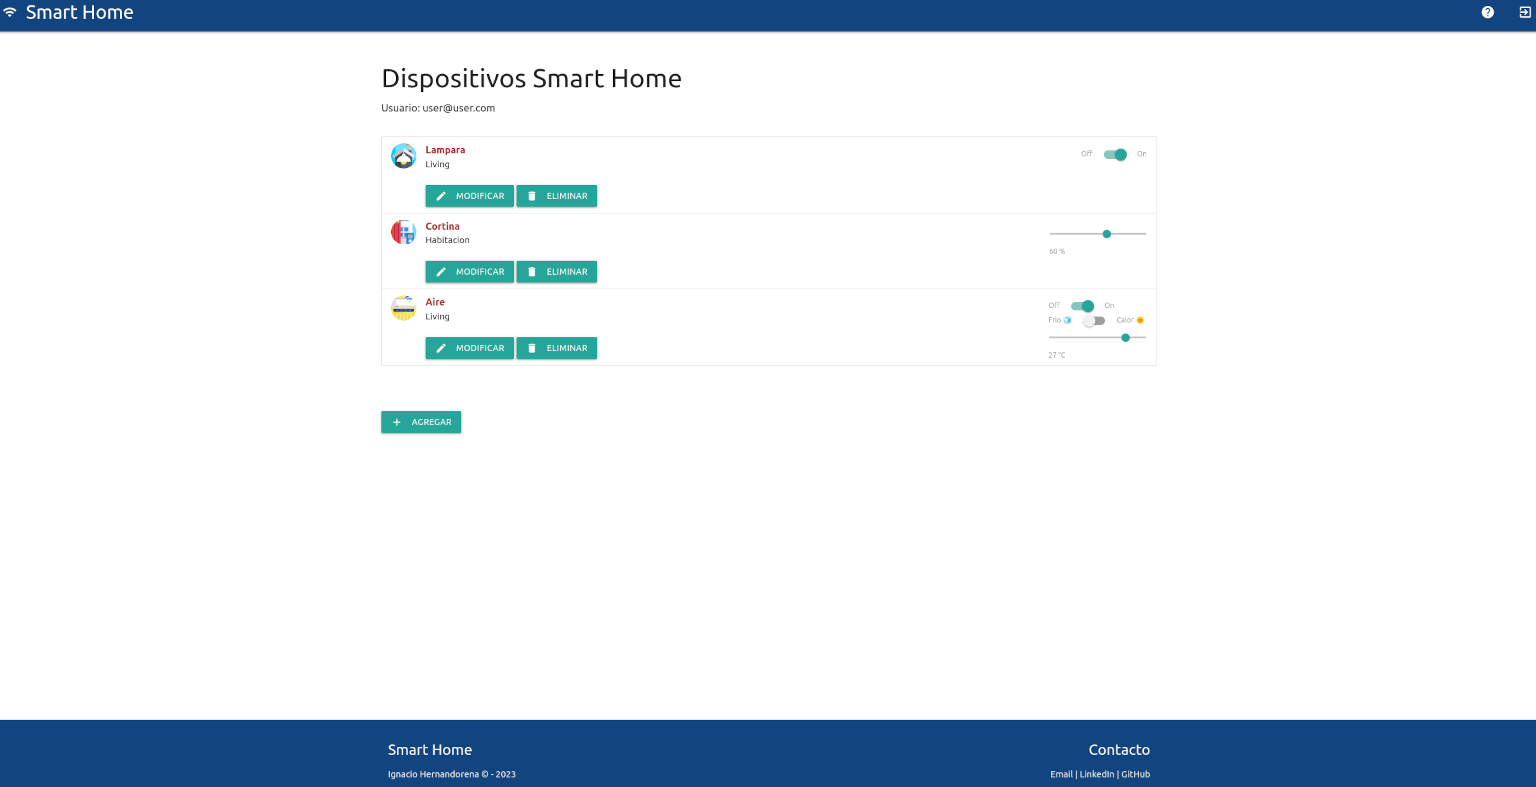
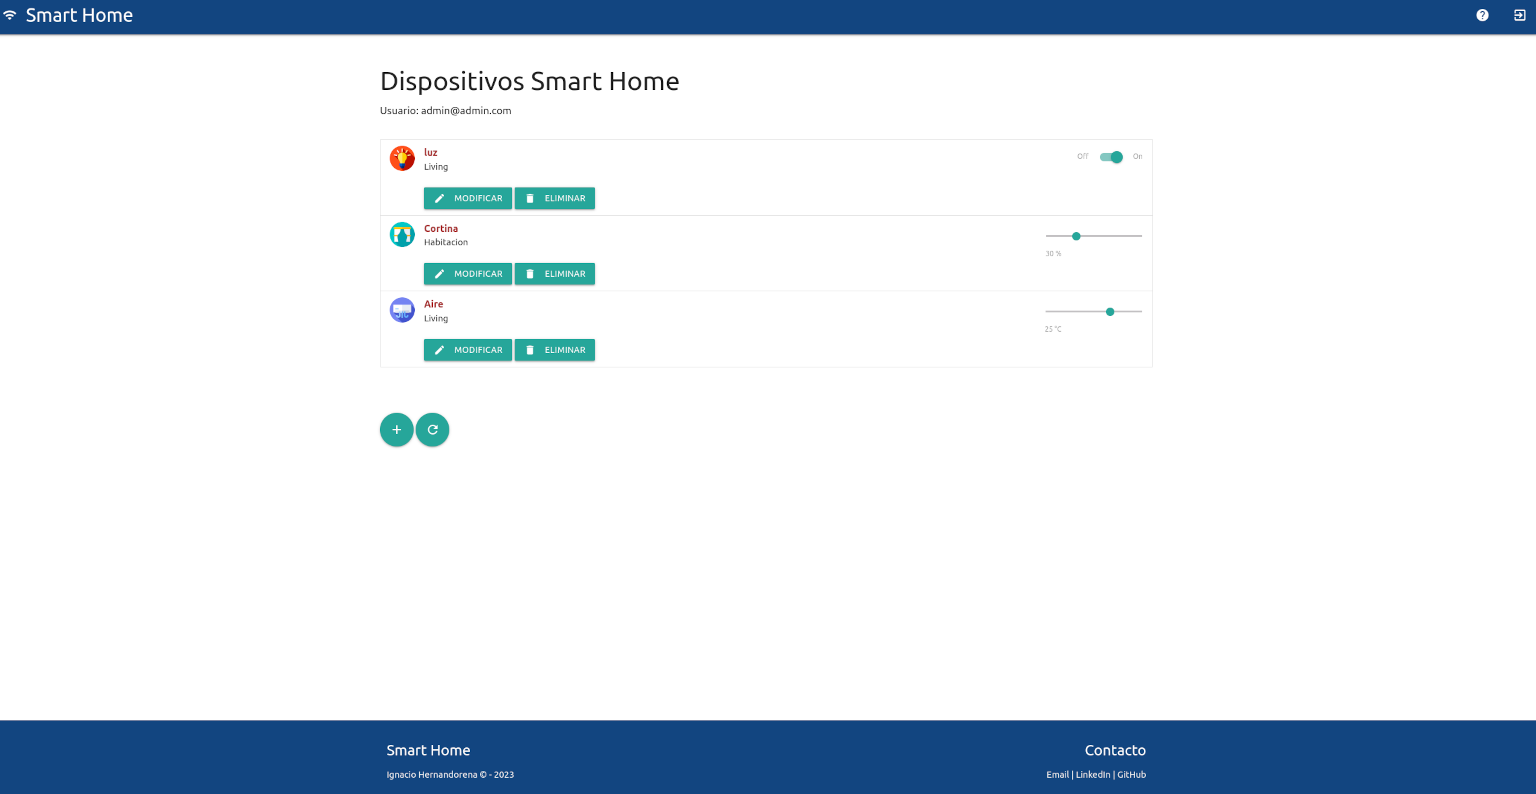
first commit

diff --git a/src/frontend/ts/main.ts b/src/frontend/ts/main.ts
@@ -15,7 +15,11 @@ class Main implements EventListenerObject, httpResponse {
   
   // Función para agregar un dispositivo nuevo
   addDevice(name: string, description: string, type: string, user_id: string) {
-    const newDevice = { name, description, type, state: 0, user_id };
+    let state = 0;
+    if (type === "3") {
+      state = 24;
+    }
+    const newDevice = { name, description, type, state, user_id };
     this.framework.addRequest("POST", "http://localhost:8000/devices/", this, newDevice);
   }
   
@@ -55,6 +59,11 @@ class Main implements EventListenerObject, httpResponse {
     instanceModal.close();
   }
 
+  // Función refresh dispositivos
+  refreshDevices() {
+    this.initialQuery();
+  }
+
   loadGrid(devList: Array<Device>) {
     const devbox = document.getElementById("devbox");
     let grid = `<ul class="collection">`;
@@ -84,8 +93,15 @@ class Main implements EventListenerObject, httpResponse {
     // Mostrar el botón logout
     const logbtn = document.getElementById("logout-button");
     logbtn.hidden = false;
+
+    // Botón refresh
+    const refreshButton = document.getElementById("refresh-button");
+    refreshButton.hidden = false;
+    refreshButton.addEventListener("click", () => {
+    this.refreshDevices();
+    });
   
-   // Filtrar los dispositivos del usuario "1", para el ejemplo es admin@admin.com. Queda pendiente implementacion para que traiga las vistas de dispositivos dependiendo del usuario que se loguea
+   // Filtrar los dispositivos del usuario "1" admin@admin.com (se puede cambiar por "2" user@user.com), para el ejemplo es admin@admin.com. Queda pendiente implementacion para que traiga las vistas de dispositivos dependiendo del usuario que se loguea
    const currentUserDevices = devList.filter(dev => dev.user_id === 1);
 
     for (const dev of currentUserDevices) {
@@ -101,7 +117,7 @@ class Main implements EventListenerObject, httpResponse {
             <div class="switch">
               <label>
                 Off
-                <input id="val_${dev.id}" type="checkbox" ${dev.state ? 'checked' : ''}>
+                <input id="value${dev.id}" type="checkbox" ${dev.state ? 'checked' : ''}>
                 <span class="lever"></span>
                 On
               </label>
@@ -112,8 +128,8 @@ class Main implements EventListenerObject, httpResponse {
           extraFields = `
             <form action="#">
               <p class="range-field">
-                <input type="range" id="val_${dev.id}" min="0" max="100" step="10" value="${dev.state}">
-                <label for="val_${dev.id}">${dev.state} %</label>
+                <input type="range" id="value${dev.id}" min="0" max="100" step="10" value="${dev.state}">
+                <label for="value${dev.id}">${dev.state} %</label>
               </p>
             </form>`;
         } else if (dev.type === 3) {
@@ -121,33 +137,9 @@ class Main implements EventListenerObject, httpResponse {
           deviceImage = "static/images/air.png";
           extraFields = `
             <form action="#">
-              <label>
-                <span class="switch">
-                  <p>
-                    <label>
-                      Off
-                      <input type="checkbox" id="mode_${dev.id}" ${dev.state ? 'checked' : ''}>
-                      <span class="lever"></span>
-                      On
-                    </label>
-                  </p>
-                </span>
-              </label>
-              <p>
-                <label>
-                  <span class="switch">
-                    <label>
-                      Frio 🧊
-                      <input type="checkbox" id="frio_${dev.id}" ${dev.frio ? 'checked' : ''}>
-                      <span class="lever" id="lever_frio_${dev.id}"></span>
-                      Calor 🌞
-                    </label>
-                  </span>
-                </label>
-              </p>
               <p class="range-field">
-                <input type="range" id="val_${dev.id}" min="14" max="30" step="1" value="${dev.state}">
-                <label for="val_${dev.id}">${dev.state} °C</label>
+                <input type="range" id="value${dev.id}" min="14" max="30" step="1" value="${dev.state}">
+                <label for="value${dev.id}">${dev.state} °C</label>
               </p>
             </form>`;
         }
@@ -175,7 +167,7 @@ class Main implements EventListenerObject, httpResponse {
 
         // Asignar eventos a los elementos creados dinámicamente
         for (let dev of currentUserDevices) {
-            document.getElementById("val_" + dev.id).addEventListener("click", this);
+            document.getElementById("value" + dev.id).addEventListener("click", this);
             document.getElementById("mod-button" + dev.id).addEventListener("click", this);
             document.getElementById("del-button" + dev.id).addEventListener("click", this);
         }
@@ -232,7 +224,7 @@ class Main implements EventListenerObject, httpResponse {
             } else {
               this.loginUser(email, password).then((loginOK) => {
                 if (loginOK) {
-                  M.toast({ html: "Ingresando..." });
+                  M.toast({ html: "🚪 Ingresando..." });
                   this.initialQuery();  
                 } else {
                   M.toast({ html: "Error de usuario y/o contraseña", classes: 'toast-centered' });
@@ -251,12 +243,12 @@ class Main implements EventListenerObject, httpResponse {
           } else {
               devstate = 0;
           }
-          let devid = parseInt(objEvent.id.replace('val_', ''));
+          let devid = parseInt(objEvent.id.replace('value', ''));
           this.changeState(devid, devstate);
       } else if (objEvent.type == "range") {
           // Cambiar el estado del dispositivo según el valor del rango
           devstate = parseInt(objEvent.value);
-          let devid = parseInt(objEvent.id.replace('val_', ''));
+          let devid = parseInt(objEvent.id.replace('value', ''));
           this.changeState(devid, devstate);
       } else if (objEvent.id.startsWith("mod-button")) {
           // Obtener el ID del dispositivo para editar y abrir el modal de edición
@@ -296,7 +288,7 @@ class Main implements EventListenerObject, httpResponse {
           // Obtener el ID del dispositivo a eliminar y eliminarlo
           let devid: number = +(<HTMLInputElement>document.getElementById("input-delete-id")).value;
           this.deleteDevice(devid);
-          M.toast({ html: '❌ Dispositivo eliminado', classes: 'toast-centered' });
+          M.toast({ html: '🗑 Dispositivo eliminado', classes: 'toast-centered' });
           this.refreshSPA("delete-modal");
       } else if (objEvent.id == "cancel-add") {
           // Cerrar el modal de agregar
@@ -307,7 +299,7 @@ class Main implements EventListenerObject, httpResponse {
           let description = (<HTMLInputElement>document.getElementById("txt-description")).value;
           let type = (<HTMLInputElement>document.getElementById("select-type")).value;
           if (name && description && type) {
-              const user_id = '1'; // Agrega dispositivos del usuario "1", para el ejemplo es admin@admin.com. Queda pendiente implementacion para cargue los dispositivos dependiendo del usuario que se loguea
+              const user_id = '1'; // Agrega dispositivos del usuario "1" admin@admin.com (se puede cambiar por "2" user@user.com), para el ejemplo es admin@admin.com. Queda pendiente implementacion para cargue los dispositivos dependiendo del usuario que se loguea
               this.addDevice(name, description, type, user_id);
               M.toast({ html: '👍 Dispositivo agregado', classes: 'toast-centered' });
               this.refreshSPA("add-modal");

diff --git a/src/frontend/js/main.js b/src/frontend/js/main.js
@@ -13,7 +13,11 @@ class Main {
     }
     // Función para agregar un dispositivo nuevo
     addDevice(name, description, type, user_id) {
-        const newDevice = { name, description, type, state: 0, user_id };
+        let state = 0;
+        if (type === "3") {
+            state = 24;
+        }
+        const newDevice = { name, description, type, state, user_id };
         this.framework.addRequest("POST", "http://localhost:8000/devices/", this, newDevice);
     }
     // Función para cambiar el estado de un dispositivo
@@ -46,6 +50,10 @@ class Main {
         const instanceModal = M.Modal.getInstance(modal);
         instanceModal.close();
     }
+    // Función refresh dispositivos
+    refreshDevices() {
+        this.initialQuery();
+    }
     loadGrid(devList) {
         const devbox = document.getElementById("devbox");
         let grid = `<ul class="collection">`;
@@ -71,7 +79,13 @@ class Main {
         // Mostrar el botón logout
         const logbtn = document.getElementById("logout-button");
         logbtn.hidden = false;
-        // Filtrar los dispositivos del usuario "1", para el ejemplo es admin@admin.com. Queda pendiente implementacion para que traiga las vistas de dispositivos dependiendo del usuario que se loguea
+        // Botón refresh
+        const refreshButton = document.getElementById("refresh-button");
+        refreshButton.hidden = false;
+        refreshButton.addEventListener("click", () => {
+            this.refreshDevices();
+        });
+        // Filtrar los dispositivos del usuario "1" admin@admin.com (se puede cambiar por "2" user@user.com), para el ejemplo es admin@admin.com. Queda pendiente implementacion para que traiga las vistas de dispositivos dependiendo del usuario que se loguea
         const currentUserDevices = devList.filter(dev => dev.user_id === 1);
         for (const dev of currentUserDevices) {
             let deviceType = "";
@@ -85,7 +99,7 @@ class Main {
             <div class="switch">
               <label>
                 Off
-                <input id="val_${dev.id}" type="checkbox" ${dev.state ? 'checked' : ''}>
+                <input id="value${dev.id}" type="checkbox" ${dev.state ? 'checked' : ''}>
                 <span class="lever"></span>
                 On
               </label>
@@ -97,8 +111,8 @@ class Main {
                 extraFields = `
             <form action="#">
               <p class="range-field">
-                <input type="range" id="val_${dev.id}" min="0" max="100" step="10" value="${dev.state}">
-                <label for="val_${dev.id}">${dev.state} %</label>
+                <input type="range" id="value${dev.id}" min="0" max="100" step="10" value="${dev.state}">
+                <label for="value${dev.id}">${dev.state} %</label>
               </p>
             </form>`;
             }
@@ -107,33 +121,9 @@ class Main {
                 deviceImage = "static/images/air.png";
                 extraFields = `
             <form action="#">
-              <label>
-                <span class="switch">
-                  <p>
-                    <label>
-                      Off
-                      <input type="checkbox" id="mode_${dev.id}" ${dev.state ? 'checked' : ''}>
-                      <span class="lever"></span>
-                      On
-                    </label>
-                  </p>
-                </span>
-              </label>
-              <p>
-                <label>
-                  <span class="switch">
-                    <label>
-                      Frio 🧊
-                      <input type="checkbox" id="frio_${dev.id}" ${dev.frio ? 'checked' : ''}>
-                      <span class="lever" id="lever_frio_${dev.id}"></span>
-                      Calor 🌞
-                    </label>
-                  </span>
-                </label>
-              </p>
               <p class="range-field">
-                <input type="range" id="val_${dev.id}" min="14" max="30" step="1" value="${dev.state}">
-                <label for="val_${dev.id}">${dev.state} °C</label>
+                <input type="range" id="value${dev.id}" min="14" max="30" step="1" value="${dev.state}">
+                <label for="value${dev.id}">${dev.state} °C</label>
               </p>
             </form>`;
             }
@@ -158,7 +148,7 @@ class Main {
         devbox.innerHTML = grid;
         // Asignar eventos a los elementos creados dinámicamente
         for (let dev of currentUserDevices) {
-            document.getElementById("val_" + dev.id).addEventListener("click", this);
+            document.getElementById("value" + dev.id).addEventListener("click", this);
             document.getElementById("mod-button" + dev.id).addEventListener("click", this);
             document.getElementById("del-button" + dev.id).addEventListener("click", this);
         }
@@ -213,7 +203,7 @@ class Main {
                 else {
                     this.loginUser(email, password).then((loginOK) => {
                         if (loginOK) {
-                            M.toast({ html: "Ingresando..." });
+                            M.toast({ html: "🚪 Ingresando..." });
                             this.initialQuery();
                         }
                         else {
@@ -234,13 +224,13 @@ class Main {
             else {
                 devstate = 0;
             }
-            let devid = parseInt(objEvent.id.replace('val_', ''));
+            let devid = parseInt(objEvent.id.replace('value', ''));
             this.changeState(devid, devstate);
         }
         else if (objEvent.type == "range") {
             // Cambiar el estado del dispositivo según el valor del rango
             devstate = parseInt(objEvent.value);
-            let devid = parseInt(objEvent.id.replace('val_', ''));
+            let devid = parseInt(objEvent.id.replace('value', ''));
             this.changeState(devid, devstate);
         }
         else if (objEvent.id.startsWith("mod-button")) {
@@ -288,7 +278,7 @@ class Main {
             // Obtener el ID del dispositivo a eliminar y eliminarlo
             let devid = +document.getElementById("input-delete-id").value;
             this.deleteDevice(devid);
-            M.toast({ html: '❌ Dispositivo eliminado', classes: 'toast-centered' });
+            M.toast({ html: '🗑 Dispositivo eliminado', classes: 'toast-centered' });
             this.refreshSPA("delete-modal");
         }
         else if (objEvent.id == "cancel-add") {
@@ -301,7 +291,7 @@ class Main {
             let description = document.getElementById("txt-description").value;
             let type = document.getElementById("select-type").value;
             if (name && description && type) {
-                const user_id = '1'; // Agrega dispositivos del usuario "1", para el ejemplo es admin@admin.com. Queda pendiente implementacion para cargue los dispositivos dependiendo del usuario que se loguea
+                const user_id = '1'; // Agrega dispositivos del usuario "1" admin@admin.com (se puede cambiar por "2" user@user.com), para el ejemplo es admin@admin.com. Queda pendiente implementacion para cargue los dispositivos dependiendo del usuario que se loguea
                 this.addDevice(name, description, type, user_id);
                 M.toast({ html: '👍 Dispositivo agregado', classes: 'toast-centered' });
                 this.refreshSPA("add-modal");

diff --git a/src/frontend/index.html b/src/frontend/index.html
@@ -53,7 +53,8 @@
           </div>
         </div>
         <div hidden id="divAdd" class="col s12 xl2">
-          <button class="btn waves-effect waves-light button-view" id="add-button" name="hello_button"><i id="add-button" class="material-icons left">add</i>Agregar</button>
+          <a class="btn-floating btn-large waves-effect waves-light dark-green"><i id="add-button" class="material-icons left">add</i>Agregar</button></a>
+          <a class="btn-floating btn-large waves-effect waves-light dark-green"><i id="refresh-button" class="material-icons left">refresh</i>Refrescar</button></a>
         </div>
       </div>
     </main>
@@ -107,7 +108,7 @@
           </div>
           <div class="input-field col s6">
             <select id="select-type">
-              <option value="1">Lampara</option>
+              <option value="1">Luz</option>
               <option value="2">Cortina</option>
               <option value="3">Aire</option>
             </select>

diff --git a/src/frontend/static/css/styles.css b/src/frontend/static/css/styles.css
@@ -43,8 +43,8 @@ main {
     cursor: pointer;
   }
   .toast-centered {
-    transform: translateX(-50%);
-    transform: translateY(-50%);
+    position: fixed;
     left: 50%;
     bottom: 20px;
+    transform: translateX(-50%) translateY(-50%);
   }

diff --git a/README.md b/README.md
@@ -156,15 +156,31 @@ En esta sección podés ver los detalles específicos de funcionamiento del cód
 
 <details><summary><b>Mira los detalles de implementación</b></summary><br>
 
-### Agregar un dispositivo
+### Logueo de usuarios 👥
 
-Completá los pasos para agregar un dispositivo desde el cliente web.
+Se realizó una implmentacion de logueo por email y contraseña. Se han agregado dos usuarios en esta etapa. Los mismos son 'admin@admin.com' y la contraseña 'secreto', y el segundo usuario es 'user@user.com' y la contraseña 'secreto'. Queda pendiente la implementacion de alta, baja y modificacion de usuarios.
+El usuario (email) con el cual se loguea se muestra en la pantalla de dispositivos.
 
-### Frontend
+### Agregar un dispositivo ➕
+
+Para agregar un dispositivo basta con clickear sobre el boton "+" en la parte inferior de la página y completar los datos del formulario, finalmente se debe confirmar la acción con el boton de 'agregar', o bien cancelar en caso que no se desee avanzar con el alta de un nuevo dispositivo. Existen tres tipos de dispositivos que se pueden agregar: Luz (dispositivo tipo 1), Cortina (dispositivo tipo 2) y Aire (dispositivo tipo 3).
+- Luz: Tiene un switch o interruptor del tipo ON-OFF
+- Cortina: tiene una barra deslizadora para setear el valor entre 0% y 100%, con intervalos de 10% .
+- Aire: tiene una barra deslizadora para setear la temperatura entre 16 y 30°C, con intervalos de 1°C .
+
+### Eliminar un dispositivo 🗑
+
+En cada uno de los dispositivos listados existe un boton de 'Eliminar'. Luego se despliega un menú para confirmar dicha accion.
+
+### Modificar un dispositivo 📝
+
+En cada uno de los dispositivos listados existe un boton de 'Modificar'. Luego se despliega un menú para confirmar dicha accion. Los mismos atributos que se piden al momento del agregado de un dispositivo son editables en esta instancia.
+
+### Frontend 👨🏻💻
 
 Completá todos los detalles sobre cómo armaste el frontend, sus interacciones, etc.
 
-### Backend
+### Backend 👨🏻💻
 
 Completá todos los detalles de funcionamiento sobre el backend, sus interacciones con el cliente web, la base de datos, etc.
 
